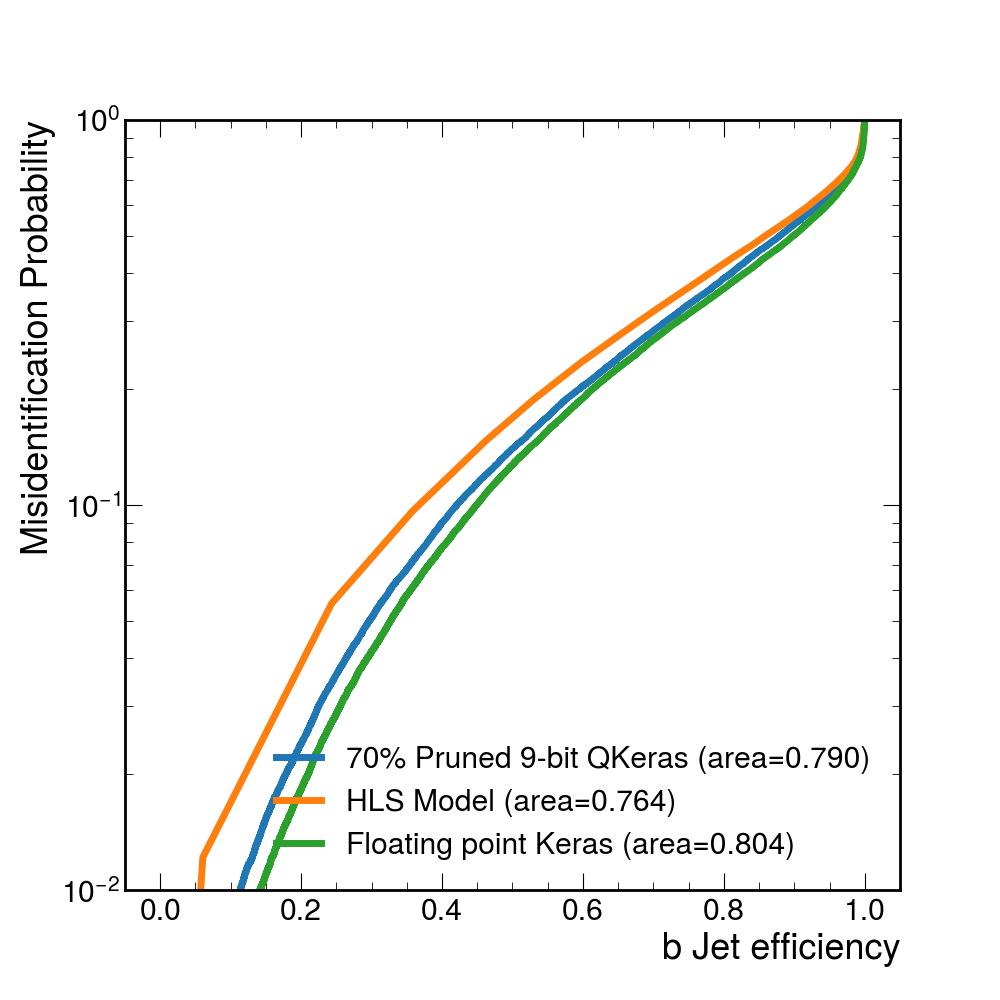
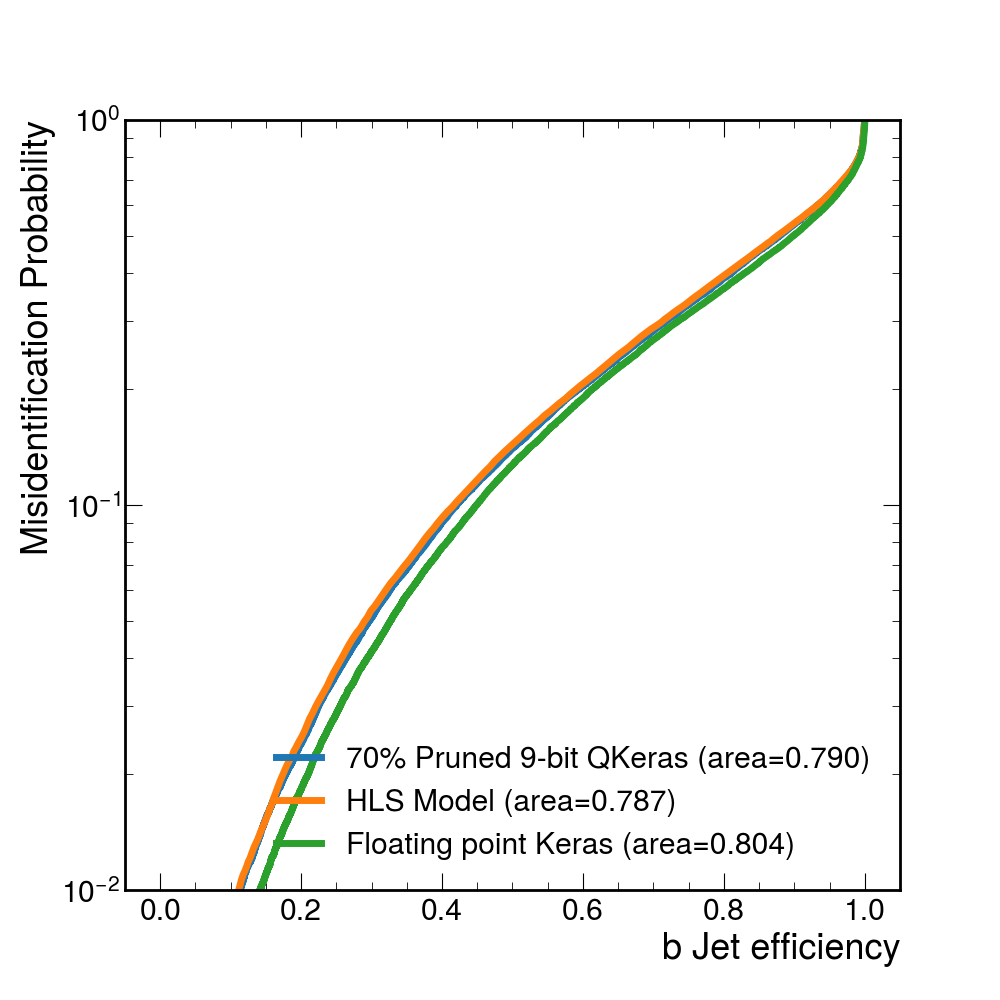
update conversion scripts

Changed region(s): [[0.217, 0.186, 0.837, 0.868], [0.186, 0.837, 0.248, 0.899], [0.651, 0.775, 0.682, 0.806]]

diff --git a/quantization_pruning/hls_convert.py b/quantization_pruning/hls_convert.py
@@ -35,50 +35,47 @@ model = load_qmodel(model_path)
 
 #Hls4ml conversion
 import os
+
+#Remove the old directory
+os.system('rm -rf qModel9')
+
 os.environ['PATH'] += os.pathsep + '/data/Xilinx/Vivado/2022.2/bin'
 hls4ml.model.optimizer.get_optimizer('output_rounding_saturation_mode').configure(layers=['Activation'], rounding_mode='AP_RND', saturation_mode='AP_SAT')
 
 config = hls4ml.utils.config_from_keras_model(model, granularity='name')
+
+print(config)
+
+#Quantization settings
+# config['Model']['Precision'] = 'ap_fixed<12,4>'
 config['LayerName']['sigmoid']['exp_table_t'] = 'ap_fixed<18,4>'
 config['LayerName']['sigmoid']['inv_table_t'] = 'ap_fixed<18,4>'
 config['LayerName']['Conv1D_1_input']['Precision'] = 'ap_fixed<9,3>'
-# config['LayerName']['Conv1D_1']['ParallelizationFactor'] = 5
-# config['LayerName']['Conv1D_2']['ParallelizationFactor'] = 5
-config['Model']['Precision'] = 'ap_fixed<12,4>'
-config['IOType']     = 'io_parallel'
 
-print(config)
+#II settings
+config['IOType']     = 'io_parallel'
+config['LayerName']['Conv1D_1']['ParallelizationFactor'] = 10
+config['LayerName']['Conv1D_2']['ParallelizationFactor'] = 10
+# config["LayerName"]['Conv1D_2']["ConvImplementation"] = "Pointwise"
 
 for Layer in config['LayerName'].keys():
     if "Conv1D" in Layer:
         config['LayerName'][Layer]['Strategy'] = 'Latency'
-        config['LayerName'][Layer]['ReuseFactor'] = 5
-
-        # if Layer ==  "Conv1D_1":
-        #     config['LayerName'][Layer]['Precision'] = 'ap_fixed<9,3>'
-
-        # if Layer ==  "Conv1D_2":
-        #     config['LayerName'][Layer]['Precision'] = 'ap_fixed<9,3>'
-
+        config['LayerName'][Layer]['ReuseFactor'] = 1
+        
     elif "Dense" in Layer:
-        # if Layer ==  "Dense_1":
-        #     config['LayerName'][Layer]['Precision'] = 'ap_fixed<9,3>'
-        if Layer ==  "Dense_2":
-            config['LayerName'][Layer]['Precision'] = 'ap_fixed<9,3>'
-        if Layer ==  "Dense_3":
-            config['LayerName'][Layer]['Precision'] = 'ap_fixed<9,3>'
 
-        config['LayerName'][Layer]['Strategy'] = 'Resource'
-        config['LayerName'][Layer]['ReuseFactor'] = 5
+        config['LayerName'][Layer]['Strategy'] = 'Latency'
+        config['LayerName'][Layer]['ReuseFactor'] = 1
 
     else:
-        config['LayerName'][Layer]['Precision'] = 'ap_fixed<9,4>'
-        config['LayerName'][Layer]['Strategy'] = 'Resource'
-        config['LayerName'][Layer]['ReuseFactor'] = 5
+        config['LayerName'][Layer]['Strategy'] = 'Latency'
+        config['LayerName'][Layer]['ReuseFactor'] = 1
 
-#hls4ml.model.flow.get_flow('vivado:optimize')._remove_optimizer('vivado:optimize_pointwise_conv')
 hls_model = hls4ml.converters.convert_from_keras_model(model,
                                                        backend='Vitis',
+                                                       project_name='btag_nn', #I'm not very creative
+                                                       clock_period=2.8, #1/360MHz = 2.8ns
                                                        hls_config=config,
                                                        output_dir='qModel9/hls4ml_prj',
                                                        part='xcvu9p-flga2104-2L-e')
@@ -125,4 +122,4 @@ plt.ylim([10**(-2),1])
 plt.legend(loc='lower right')
 plt.savefig('Models_ROC.png')
 
-# hls_model.build(csim=False, reset = True)
+hls_model.build(csim=False, reset = True)
